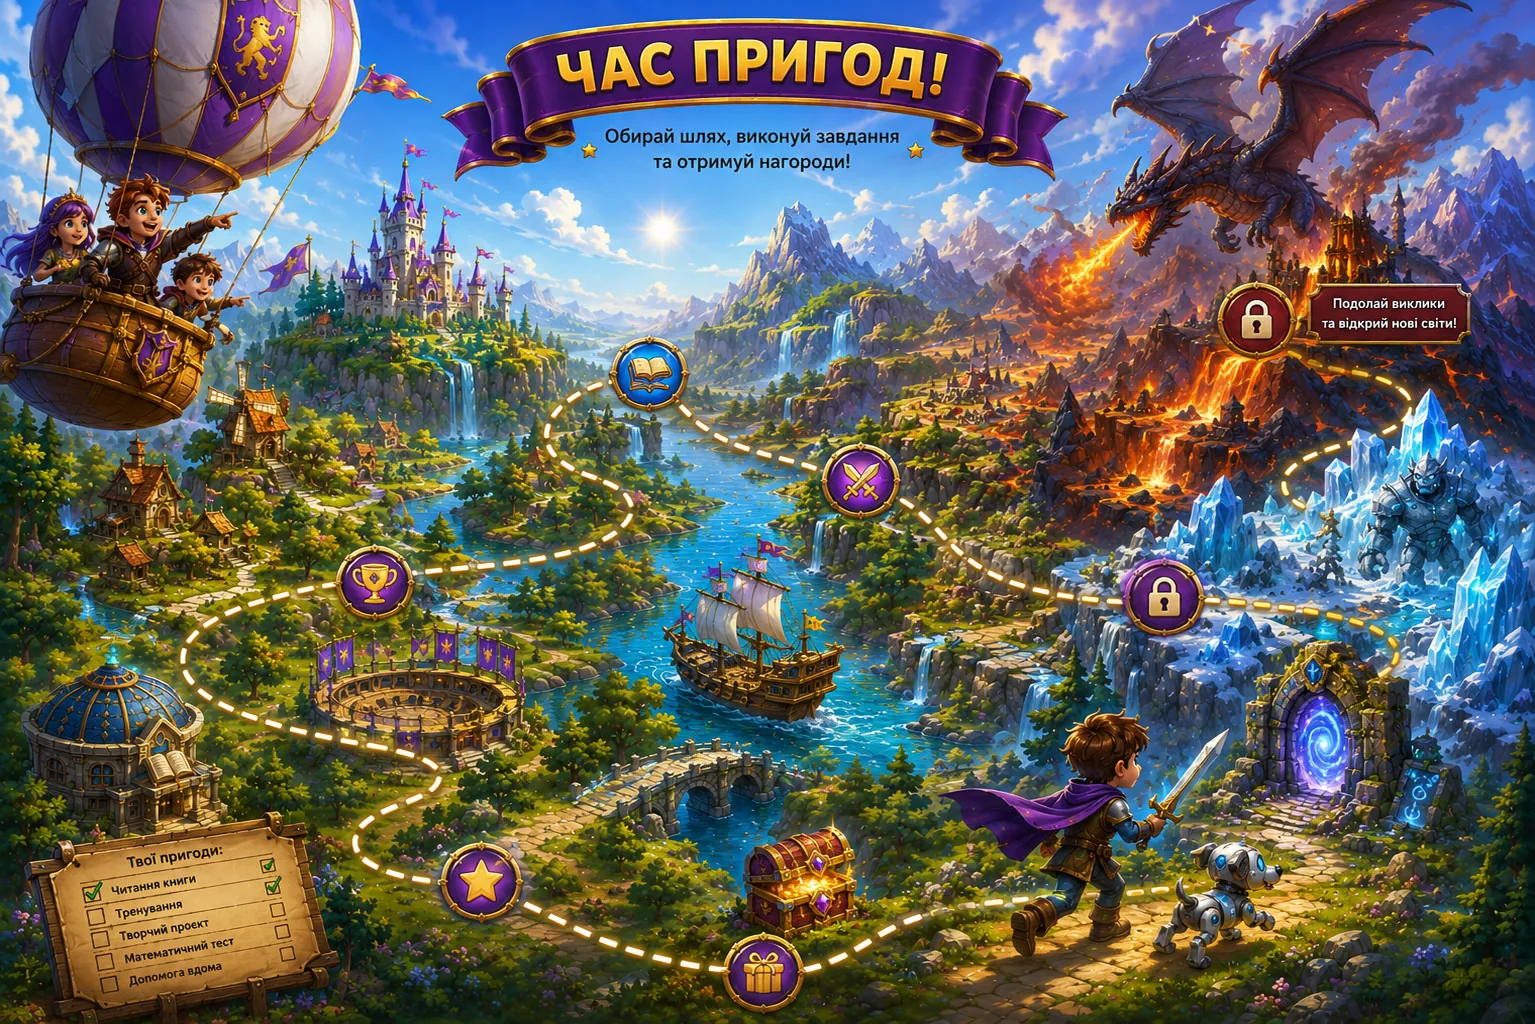
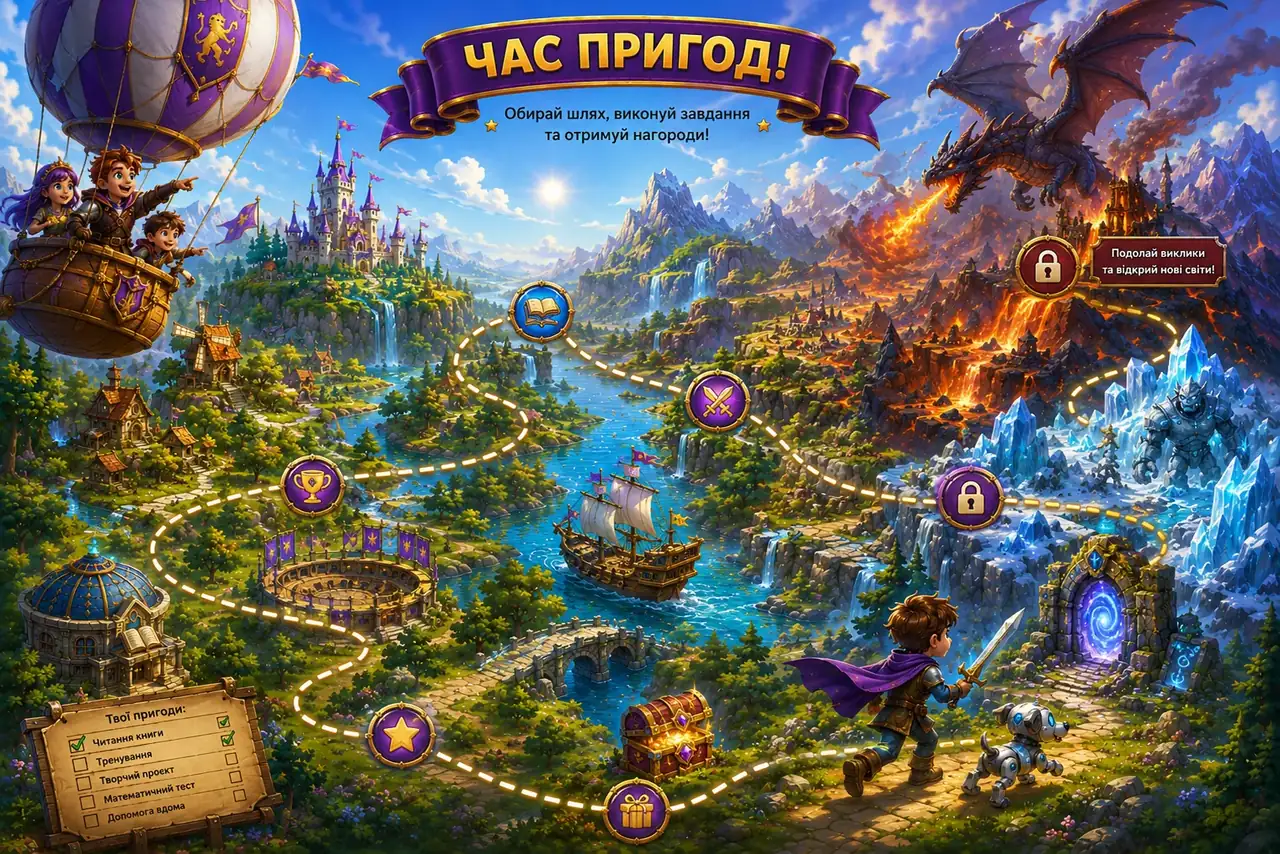
Прискорення завантаження головної сторінки
- Заставка ховається, щойно готова розмітка, а не після 'load'
  (раніше чекала всі картинки/шрифти/модулі — до 3 с і більше).
- Перестиснуто картинки першого екрана (назви файлів ті самі):
  splash/hero-bg 424→213 КБ, logo-big 194→109 КБ (960 px),
  landing-bg 234→152 КБ, login-bg 182→152 КБ, logo-small.png 70→27 КБ.
- nginx: картинки/звуки/шрифти кешуються в браузері на добу
  (+ тиждень stale-while-revalidate) замість години.

Claude-Session: https://claude.ai/code/session_01TZHfyKrr9XmBY9Nt9iJAKL

diff --git a/index.html b/index.html
@@ -177,7 +177,12 @@
         setTimeout(function(){ if(sp.parentNode) sp.parentNode.removeChild(sp); }, 500);
       }, wait);
     }
-    window.addEventListener('load', hide);
+    // Ховаємо, щойно розмітка сторінки готова (виклик у кінці <body>), а не
+    // після 'load': 'load' чекає ВСІ картинки, шрифти й модулі — на повільному
+    // інтернеті заставка висіла до MAX, хоча сторінка вже була готова.
+    // Картинки довантажуються вже під відкритою сторінкою.
+    window.skHideSplash = hide;
+    document.addEventListener('DOMContentLoaded', hide);
     setTimeout(hide, MAX);
   })();
   </script>
@@ -221,7 +226,7 @@
     <!-- ВЕЛИКИЙ ЛОГОТИП: заміни src="logo-big.webp" та href за потреби.
          WebP замість PNG: 2.5 МБ → 382 КБ на першому екрані сайту. -->
     <a class="hero-logo-link" href="index.html">
-      <img class="hero-logo" src="logo-big.webp" width="1536" height="1024" fetchpriority="high" alt="SchoolKingdoms — Твої знання. Твоє королівство."
+      <img class="hero-logo" src="logo-big.webp" width="960" height="596" fetchpriority="high" alt="SchoolKingdoms — Твої знання. Твоє королівство."
            onerror="this.style.display='none';this.parentElement.classList.add('ph')">
     </a>
 
@@ -277,6 +282,7 @@
   </footer>
 
   <!-- ── Авторедірект: лендінг бачать лише гості; залогінених кидаємо в їхній кабінет ── -->
+  <script>window.skHideSplash && skHideSplash();</script>
   <script type="module" src="firebase-config.js"></script>
   <script>
   (function(){

diff --git a/login.html b/login.html
@@ -147,7 +147,7 @@
 
   <main class="login-wrap">
     <a class="login-logo" href="index.html" aria-label="SchoolKingdoms — на головну">
-      <img src="logo-big.webp" alt="School Kingdoms" width="1450" height="900">
+      <img src="logo-big.webp" alt="School Kingdoms" width="960" height="596">
     </a>
 
     <div class="login-card">
